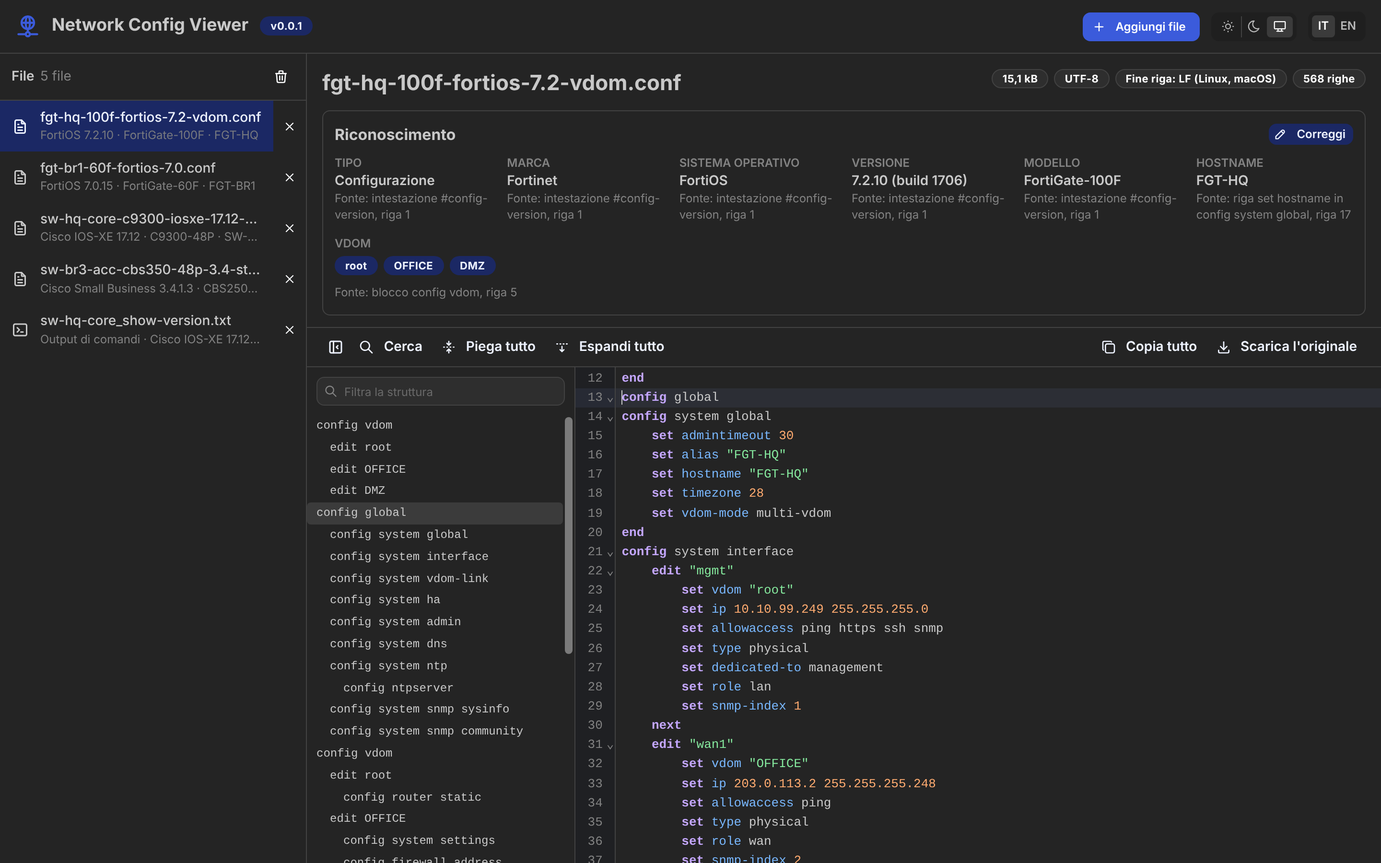
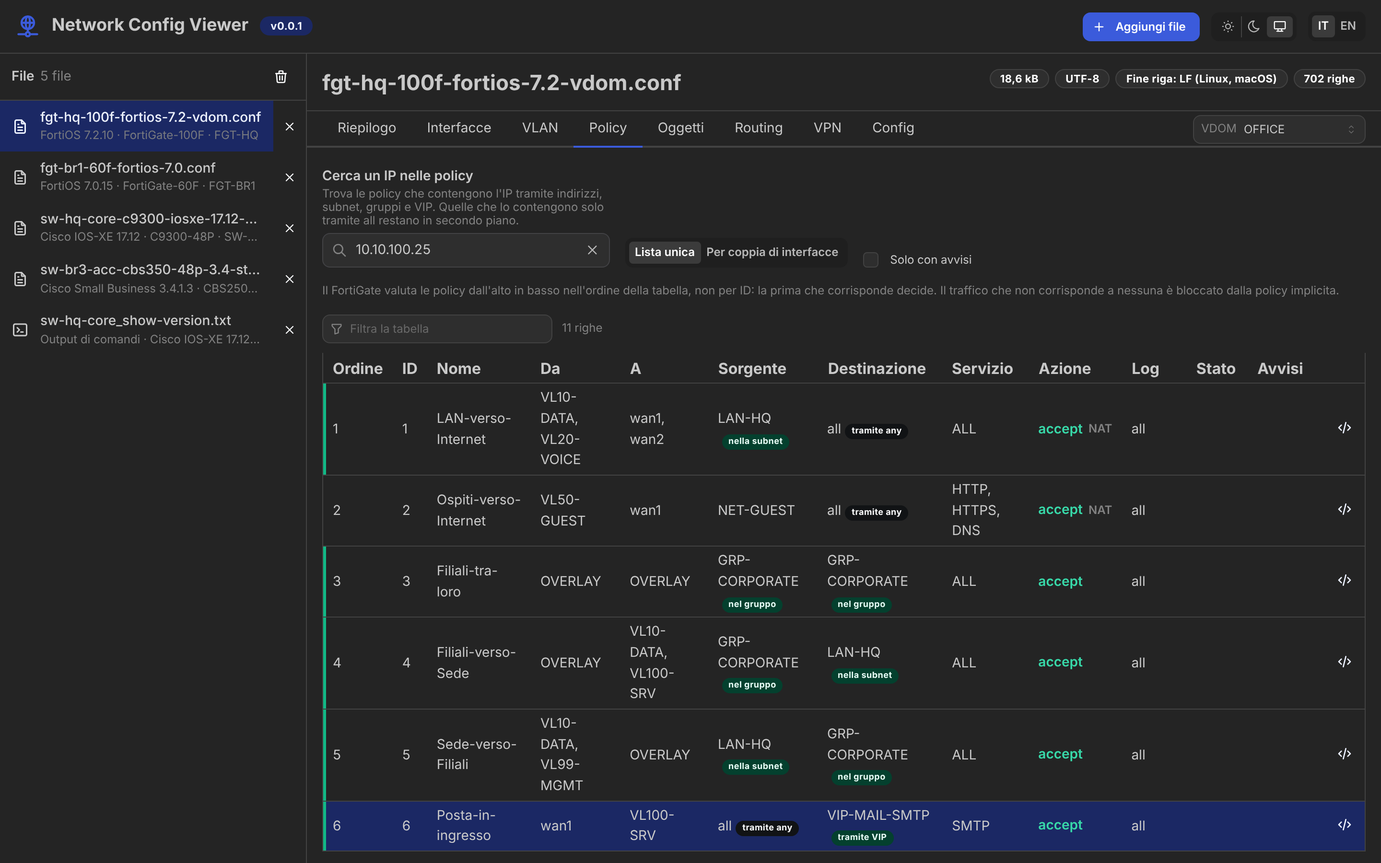
docs: studio, README e screenshot dei driver e delle viste della fase 1
La #11 ha portato su main driver e viste senza aggiornare la
documentazione: la recupero qui.

- Studio: decisioni della #10 (clienti e archivio locale su disco,
  browser, copertura, default), driver nel capitolo 3, modello neutro
  realizzato nel capitolo 4, cosa c'e' gia' nelle viste 5.2-5.10,
  scelte tecniche, test e roadmap della fase 1 con le parti fatte e
  quelle che mancano.
- README: cosa fa oggi l'app, stato del progetto, struttura del codice.
- Screenshot rifatti in chiaro e scuro: policy del FortiGate con la
  ricerca per IP, pannello porte dello stack, config collegata.

Refs #10

Claude-Session: https://claude.ai/code/session_019CEh6DvQwvQPP7ZKBtkL73

diff --git a/packages/web/e2e/screenshots.spec.ts b/packages/web/e2e/screenshots.spec.ts
@@ -1,6 +1,6 @@
 import { expect, test } from '@playwright/test';
 import { fileURLToPath } from 'node:url';
-import { field, loadFiles, openApp, samplePath, selectFile } from './helpers';
+import { loadFiles, openApp, samplePath, selectFile } from './helpers';
 
 // Screenshots for the documentation, made only from the synthetic samples.
 // Run with: NCV_SCREENSHOTS=1 npm run test:e2e -- screenshots
@@ -25,13 +25,17 @@ for (const [colorScheme, suffix] of [
   test.describe(colorScheme, () => {
     test.use({ colorScheme });
 
-    test('FortiGate with VDOMs', async ({ page }) => {
+    test('FortiGate policies', async ({ page }) => {
       await openApp(page);
       await loadFiles(page, files.map(samplePath), files.length);
       await selectFile(page, 'fgt-hq-100f-fortios-7.2-vdom.conf');
-      await expect(field(page, 'vdoms')).toBeVisible();
-      await page.getByTestId('outline').locator('[data-testid="outline-entry"]').nth(4).click();
-      await expect(page.locator('.cm-activeLine span').first()).toBeVisible();
+      await page.getByTestId('tab-policies').click();
+      await page.getByTestId('policy-ip-search').fill('10.10.100.25');
+      await expect(
+        page.locator('[data-testid="row-policies"][data-state="match"]').first(),
+      ).toBeVisible();
+      await page.locator('[data-testid="row-policies"][data-id="6"]').click();
+      await expect(page.getByTestId('policy-detail')).toBeVisible();
       await page.screenshot({ path: `${DOCS_IMG}app-fortigate${suffix}.png` });
     });
 
@@ -39,13 +43,25 @@ for (const [colorScheme, suffix] of [
       await openApp(page);
       await loadFiles(page, files.map(samplePath), files.length);
       await selectFile(page, 'sw-hq-core-c9300-iosxe-17.12-stack.txt');
-      await page.getByTestId('outline').getByRole('textbox').fill('Port-channel');
-      await expect(page.getByTestId('outline-entry')).toHaveCount(3);
-      await page.getByTestId('outline-entry').first().click();
-      await expect(page.locator('.cm-activeLine')).toHaveText('interface Port-channel1');
-      // Highlighting is applied right after scrolling: wait for the coloured tokens.
-      await expect(page.locator('.cm-activeLine span').first()).toBeVisible();
+      await page.getByTestId('tab-ports').click();
+      await page.locator('[data-testid="port"][data-name="TenGigabitEthernet1/1/1"]').click();
+      await expect(page.getByTestId('port-detail')).toBeVisible();
       await page.screenshot({ path: `${DOCS_IMG}app-cisco${suffix}.png` });
+    });
+
+    test('linked config', async ({ page }) => {
+      await openApp(page);
+      await loadFiles(page, files.map(samplePath), files.length);
+      await selectFile(page, 'sw-hq-core-c9300-iosxe-17.12-stack.txt');
+      await page.getByTestId('tab-ports').click();
+      await page.getByTestId('filter-ports').fill('Vlan70');
+      await page.locator('[data-testid="row-ports"][data-id="Vlan70"]').click();
+      await page.getByTestId('port-source').click();
+      await expect(page.locator('.ncv-ref').first()).toBeVisible();
+      await expect(page.locator('.ncv-line-unknown').first()).toBeVisible();
+      // Syntax highlighting is applied right after scrolling: wait for the coloured tokens.
+      await expect(page.locator('.cm-line span:not(.ncv-ref)').first()).toBeVisible();
+      await page.screenshot({ path: `${DOCS_IMG}app-config${suffix}.png` });
     });
 
     test('start page', async ({ page }) => {

diff --git a/docs/STUDIO.md b/docs/STUDIO.md
@@ -1,10 +1,10 @@
 # Studio preliminare: Network Config Viewer
 
-> **Stato:** novembre 2026. La [fase 0](#fase-0-fondamenta-realizzata) è realizzata: l'app si avvia in locale con Docker, riconosce le config FortiGate e Cisco e le mostra navigabili (vedi il [README](../README.md)). Il resto del documento raccoglie le decisioni prese e il piano delle fasi successive. Il [mockup](mockup/index.html) mostra con dati di esempio come potrebbero apparire le viste future: scarica il file e aprilo nel browser.
+> **Stato:** novembre 2026. La [fase 0](#fase-0-fondamenta-realizzata) è realizzata: l'app si avvia in locale con Docker, riconosce le config FortiGate e Cisco e le mostra navigabili. La [fase 1](#fase-1-lettura-dei-singoli-apparati-fortigate-cisco-iosios-xe-e-cisco-small-business-mvp) è in corso: i driver FortiOS, Cisco IOS/IOS-XE e Small Business leggono le config e l'app mostra le viste di ogni apparato (vedi il [README](../README.md)); mancano gli show con lo stato reale, l'archivio dei clienti su disco e l'export Excel. Il resto del documento raccoglie le decisioni prese e il piano delle fasi successive. Il [mockup](mockup/index.html) mostra con dati di esempio come potrebbero apparire le viste future: scarica il file e aprilo nel browser.
 
 ## 1. In breve
 
-- **Cosa**: uno strumento per **vedere l'infrastruttura di un cliente** partendo dai backup di configurazione. Ogni cliente ha la sua cartella con config, output di show e versioni precedenti. Si caricano tutti gli apparati (firewall, switch, wireless) e si ottengono:
+- **Cosa**: uno strumento per **vedere l'infrastruttura di un cliente** partendo dai backup di configurazione. Per ogni cliente si caricano nell'app config, output di show e versioni precedenti, e l'app li conserva. Si caricano tutti gli apparati (firewall, switch, wireless) e si ottengono:
   - una mappa grafica con collegamenti fisici, VPN, SD-WAN, scorciatoie ADVPN e routing/BGP;
   - le viste di dettaglio di ogni apparato: policy, porte e VLAN, ACL, regole SD-WAN, routing;
   - la vista dei rack, con patch panel e cavi.
@@ -39,7 +39,11 @@
 | FortiManager | Sia in lettura (template e policy package esistenti) sia in generazione |
 | Input | File caricati a mano e output dei comandi show; lettura live SSH/API in una fase successiva |
 | Analisi | Pulizia policy, policy lookup, topologia, confronto tra versioni, controlli di coerenza tra apparati |
-| Organizzazione | Una cartella per cliente, con config, output di show, versioni precedenti, file delle prese e collegamenti inseriti a mano |
+| Organizzazione | Clienti gestiti dall'app: all'app non si dà mai una cartella, i file si caricano (anche dentro archivi zip e tar) e l'app li conserva per cliente, raggruppati per apparato: config attuale, versioni precedenti, show, e più avanti file delle prese e collegamenti inseriti a mano |
+| Archivio locale | Su disco già nella fase 1: un volume Docker sul PC, gestito da un piccolo programma lato server nel container, che serve l'app al posto di nginx e conserva i file 1:1. Lo stesso archivio si vede da qualsiasi browser e non si perde pulendo il browser. Un cliente si esporta e si reimporta in un file zip |
+| Browser | Chrome, Edge, Firefox e Safari; i test nel browser girano su Chromium, Firefox e WebKit |
+| Copertura della lettura | Ogni riga è compresa, ignorata di proposito (commenti, banner, certificati, messaggi sostitutivi) o sconosciuta. Il riepilogo mostra la percentuale e le sezioni non interpretate; le righe sconosciute sono evidenziate nella config |
+| Valori di default | Tabelle per marca e versione; nelle viste i valori che vengono da un default sono in corsivo, e quelli non ancora confermati su apparati reali sono segnati "da verificare" |
 | Collegamenti tra apparati | Verificati con LLDP/CDP, dedotti da descrizioni e indirizzi, oppure inseriti a mano; le differenze tra le fonti vengono segnalate |
 | Indirizzi MAC sulle porte | Ogni porta configurata degli switch riporta i MAC dei dispositivi collegati, con la VLAN, letti dalla tabella MAC dello switch (`show mac address-table`), non dalla config. Lo strumento li mostra e segnala le porte senza MAC e lo show mancante (vedi [5.5](#55-pannello-porte-dello-switch)) |
 | VPN | Anche ADVPN: ruoli, controlli e scorciatoie tra filiali |
@@ -56,7 +60,7 @@
 | Documentazione e screenshot | Solo con dati sintetici, generati dalle config di esempio in `samples/` |
 | Licenza | Open source, MIT |
 | Codice | Scritto da Claude: lo stack si sceglie per semplicità d'uso, non per familiarità |
-| Strumenti | TypeScript, npm workspaces, React + Vite, Mantine, i18next, CodeMirror 6, fflate, Vitest, Playwright (vedi [capitolo 8](#8-scelte-tecniche)) |
+| Strumenti | TypeScript, npm workspaces, React + Vite, Mantine, i18next, CodeMirror 6, TanStack Table e TanStack Virtual, fflate, Vitest, Playwright (vedi [capitolo 8](#8-scelte-tecniche)) |
 | Test automatici | Su GitHub Actions a ogni pull request: lint, tipi, test, build, immagine Docker e test nel browser sul container. Non si pubblica niente |
 | Metodo di lavoro | Ogni proposta viene analizzata e diventa un'issue; si lavora solo dopo l'okay. Registro delle modifiche in `CHANGELOG.md`, documentazione sempre aggiornata, Semantic Versioning. Regole complete in [`CLAUDE.md`](../CLAUDE.md) |
 
@@ -117,6 +121,13 @@ flowchart LR
 Così il lavoro sulla sintassi si fa una volta per famiglia, e ogni nuova marca costa solo il suo driver.
 
 Nella fase 0 ci sono i parser generici delle due famiglie dell'MVP: indentazione e blocchi `config / edit / set / next / end`. Gestiscono anche i casi che rompono le regole: valori FortiOS tra virgolette su più righe (certificati, chiavi, messaggi), VDOM con i blocchi a colonna 0, banner Cisco con delimitatore (`^C` o il carattere ETX), catene di certificati chiuse da `quit`, intestazione e blocchi `exit` dei Cisco Small Business. Un file da 20 MB si legge in meno di un secondo, fuori dal thread dell'interfaccia.
+
+Nella fase 1 ci sono i driver di marca dell'MVP, in `packages/core/src/drivers`:
+
+- **Cisco IOS, IOS-XE e Small Business**: interfacce e modalità delle porte (con i default di DTP e dei trunk), liste `allowed vlan` con `add`, `remove` ed `except`, modalità `general` dei Small Business, VLAN anche quando le tiene il VTP, port-channel, stack e posizione delle porte, SVI, PoE, 802.1X/MAB, port security, VLAN voce, ACL e object-group con i punti in cui sono applicati, rotte statiche, policy route, OSPF, BGP, route-map e prefix-list.
+- **FortiOS 7.0–8.0**: VDOM come contesti separati, interfacce e zone, indirizzi e gruppi (con le esclusioni), servizi, VIP, IP pool, policy nell'ordine reale, rotte statiche anche verso le zone SD-WAN, policy route, BGP con gruppi e range dinamici, OSPF, route-map, prefix-list, IPsec con fase 1, fase 2 e ruolo ADVPN, SD-WAN. Gli oggetti predefiniti (`all`, `ALL`, `HTTP`, `HTTPS`, `DNS`…) si aggiungono quando le policy li usano senza definirli.
+
+Ogni driver classifica le righe (copertura), collega i nomi alla loro definizione e segna i valori di default. Il modello si costruisce nel Web Worker: un FortiGate con 10.000 policy si legge in meno di mezzo secondo.
 
 ### Come ottenere l'input per ogni marca
 
@@ -183,7 +194,7 @@ Per FortiSwitch gestiti dal FortiGate la tabella MAC si legge dal FortiGate con 
 | `get router info bgp summary` | Sessioni BGP stabilite e prefissi ricevuti |
 | `diagnose sys sdwan health-check`, `diagnose sys sdwan service` | Stato degli SLA e membro scelto da ogni regola SD-WAN (i nomi dei comandi cambiano leggermente tra le versioni) |
 
-## 4. Modello dati neutro (prima bozza)
+## 4. Modello dati neutro
 
 ```
 Cliente (una cartella sul PC)
@@ -220,6 +231,16 @@ Cliente (una cartella sul PC)
 - Ogni elemento porta con sé i riferimenti alle righe sorgente.
 - I contesti logici vanno previsti da subito: policy e oggetti appartengono a un contesto (per esempio una VDOM), non direttamente all'apparato.
 
+**Cosa c'è già (fase 1).** La prima versione del modello, in `packages/core/src/model/types.ts`, copre un apparato alla volta:
+
+- l'apparato, con hostname, marca, sistema e versione, modello, membri dello stack, IP di gestione e funzioni in uso;
+- le interfacce, con modalità L2, VLAN, port-channel, posizione sul frontale, PoE, 802.1X/MAB, port security, indirizzi IP, VRF, ACL applicate, OSPF, e per FortiOS alias, ruolo, accesso amministrativo e VDOM;
+- le VLAN, anche quelle implicite (VLAN 1, VLAN usate dalle porte ma non scritte per via del VTP);
+- i contesti logici (le VDOM, oppure un solo contesto per gli switch), con zone, indirizzi, gruppi, servizi, policy, VIP, IP pool, ACL, object-group, routing (statiche, policy route, BGP, OSPF, route-map, prefix-list), IPsec e SD-WAN;
+- i riferimenti dai nomi alle definizioni, la copertura riga per riga e gli avvisi (per esempio VLAN fuori dalla config per via del VTP, policy disattivate, senza log, che permettono tutto o che aprono servizi di gestione a tutti).
+
+Ogni elemento ha le righe da cui proviene e l'elenco dei campi che vengono da un default, con quelli ancora da verificare. Rack, collegamenti tra apparati, servizi di gestione, apparati gestiti, wireless e stato dagli show arrivano nelle fasi successive.
+
 ## 5. Le viste grafiche
 
 Il [mockup](mockup/index.html) contiene le viste 5.1–5.7, 5.9 e 5.11, con un cliente di esempio: una sede con FortiGate hub e tre Catalyst, tre filiali con FortiGate in SD-WAN e ADVPN.
@@ -241,6 +262,8 @@ Il [mockup](mockup/index.html) contiene le viste 5.1–5.7, 5.9 e 5.11, con un c
 - **Esportazione in draw.io e immagine**, per la documentazione da consegnare al cliente.
 
 ### 5.2 VPN
+
+**Nella fase 1**, per ogni FortiGate e per ogni VDOM: elenco dei tunnel con tipo, interfaccia, gateway remoto, versione IKE, proposte, ruolo ADVPN e fasi 2 (selettori, proposte, PFS, gruppi DH, negoziazione automatica, durata della chiave), con i valori di default indicati come tali. L'abbinamento dei due estremi arriva con la mappa (fase 2).
 
 Elenco dei tunnel di tutto il progetto con i due estremi abbinati, e per ciascuno:
 
@@ -278,11 +301,15 @@ Per ogni FortiGate:
 
 Sulla mappa, gli overlay SD-WAN collegano filiali e hub. Le stesse viste valgono per il multi-WAN degli altri vendor, per esempio i gateway group di pfSense e OPNsense.
 
+**Nella fase 1** ci sono zone, membri, health check con SLA e regole in ordine con la regola implicita; il membro in uso arriva con gli show.
+
 ### 5.4 Routing e BGP
 
 - **Per apparato**: rotte statiche, policy route, BGP (neighbor, gruppi, range dinamici dell'hub, reti annunciate, redistribuzioni, route-map e prefix-list espanse), OSPF.
 - **Sulla mappa**: sessioni BGP abbinate tra apparati, con AS, iBGP o eBGP e route reflector.
 - **Tabella di routing reale**, se caricata da show, con evidenziate le rotte attese che mancano (per esempio la LAN di una filiale la cui sessione BGP non è su). Senza show, la tabella mostra le rotte che derivano dalla config: connesse, statiche, reti annunciate.
+
+**Nella fase 1**, per ogni apparato e per ogni VDOM: rotte ricavate dalla config (connesse e statiche, anche verso le zone SD-WAN) con la ricerca della rotta per un IP, policy route, OSPF con le interfacce, l'area e quelle passive, BGP con neighbor, gruppi, range dinamici, reti annunciate e redistribuzioni, route-map e prefix-list.
 
 ### 5.5 Pannello porte dello switch
 
@@ -306,9 +333,13 @@ Disegno del frontale, con un riquadro per ogni membro dello stack:
   - il modello si ricava dalla config stessa (per esempio `switch 1 provision c9300-48p` su Cisco, l'intestazione `#config-version=FGT60F-…` su FortiGate) oppure da `show inventory`.
 - Lo stesso pannello serve per le **interfacce del FortiGate** (port1…, wan, x1/x2 SFP+) e per i **FortiSwitch** gestiti dal FortiGate, comprese le coppie MCLAG.
 
+**Nella fase 1** il pannello degli switch è quello generico: un riquadro per ogni membro dello stack, porte dispari sopra e pari sotto, uplink a parte, colore per VLAN access (lo stesso su un apparato), trunk a strisce, porte spente e L3, segni per PoE, 802.1X/MAB, VLAN voce e port-channel, filtro per VLAN e dettaglio della porta con i valori di default indicati come tali. Sotto il pannello c'è la tabella di tutte le interfacce. Per il FortiGate le interfacce sono in una tabella, con tipo, VDOM, zona, interfaccia padre o membri e accesso amministrativo. Stato reale e indirizzi MAC arrivano con gli show.
+
 ### 5.6 VLAN
 
 Per ogni VLAN: nome, **gateway** (anche se si trova su un altro apparato del progetto, per esempio la sotto-interfaccia del FortiGate), numero di porte access, voce e trunk, e una striscia con tutte le porte nell'ordine del frontale. È il riferimento principale nelle migrazioni switch.
+
+**Nella fase 1**: nome, gateway se sta sullo stesso apparato, porte access, voce, untagged e tagged (i membri dei port-channel contano nel `Po`); per il FortiGate, le interfacce VLAN con ID, interfaccia padre, indirizzo e VDOM.
 
 ### 5.7 Policy firewall
 
@@ -323,21 +354,29 @@ Tabella in stile GUI FortiGate:
 - **Viste collegate**: VIP/NAT, IP pool, interfacce e zone, rotte statiche.
 - **Altri vendor**: la vista segue il modello di ognuno. Per esempio pfSense e OPNsense hanno regole per interfaccia d'ingresso, con le regole floating valutate per prime.
 
+**Nella fase 1**: ordine reale, lista unica o per coppia di interfacce, VDOM, ricerca testuale e per IP (tramite indirizzi, subnet, gruppi con le esclusioni, VIP e `all`; le regole che contengono l'IP solo tramite `all` restano in secondo piano), dettaglio della regola con gli oggetti espansi fino agli IP e i servizi fino alle porte, avvisi (disabilitate, senza log, any-any, sorgente `all` su servizi di gestione). Gli oggetti hanno una vista propria con "dove è usato". Le regole oscurate arrivano con la pulizia policy (fase 3).
+
 ### 5.8 ACL degli switch
 
 Elenco delle ACL con le voci, gli object-group espansi e i **punti in cui sono applicate** (interfaccia e direzione, VTY, SNMP, NAT, route-map…). Usa lo stesso motore di ricerca e di lookup delle policy firewall.
+
+**Nella fase 1**: voci, punti di applicazione (interfacce, VTY, SNMP, route-map, accesso di gestione dei Small Business), object-group espansi e ricerca per IP tramite host, subnet, gruppi e `any`. Il lookup di un flusso arriva nella fase 3.
 
 ### 5.9 Config originale collegata
 
 Testo originale con evidenziazione della sintassi, blocchi piegabili e numeri di riga. I nomi degli oggetti sono cliccabili (portano alla definizione) e le righe non comprese dal parser sono evidenziate. Ogni dettaglio (porta, policy, tunnel) indica le righe da cui proviene.
 
-Nella fase 0 ci sono già evidenziazione, blocchi piegabili, numeri di riga, ricerca e una struttura navigabile (blocchi `config`, VDOM, interfacce, banner…). Il testo resta identico al file: si copia o si scarica byte per byte, anche con i fine riga di Windows. Nomi cliccabili e righe non comprese arrivano con i driver di marca della fase 1.
+Nella fase 0 ci sono evidenziazione, blocchi piegabili, numeri di riga, ricerca e una struttura navigabile (blocchi `config`, VDOM, interfacce, banner…). Il testo resta identico al file: si copia o si scarica byte per byte, anche con i fine riga di Windows.
 
-![La vista della config nella fase 0: elenco dei file, riconoscimento con la riga da cui viene ogni dato, struttura navigabile e testo originale](img/app-fortigate.png)
+Nella fase 1, per gli apparati letti da un driver, la config è l'ultima scheda delle viste: i nomi sono cliccabili verso la definizione, con "Torna indietro"; le righe non interpretate sono evidenziate (si possono nascondere); ogni elemento delle viste apre la config sulle sue righe.
+
+![La config collegata di uno stack Catalyst: righe non interpretate evidenziate e nomi cliccabili verso la loro definizione](img/app-config.png)
 
 ### 5.10 Riepilogo dell'apparato
 
 Hostname, modello, versione, IP di gestione, conteggi (interfacce, VLAN, policy, oggetti), funzioni in uso (stack, vPC, VSX, 802.1X, OSPF, SD-WAN…), show caricati e percentuale di copertura del parser.
+
+**Nella fase 1** il riepilogo è la prima scheda di ogni apparato letto da un driver: riconoscimento (correggibile a mano), IP di gestione, stack o VDOM, conteggi, funzioni in uso, avvisi raggruppati per tipo con il salto alle righe, copertura con l'elenco delle sezioni non interpretate. Gli show caricati arrivano con la loro lettura.
 
 ### 5.11 Rack e patch panel
 
@@ -448,16 +487,16 @@ Il punto forte di Python (librerie SSH come Netmiko) serve solo per la lettura l
 | Interfaccia | React + Vite, con Mantine come libreria di componenti (tema chiaro, scuro o come il sistema, a scelta) |
 | Traduzioni | i18next, un file JSON per lingua; un test verifica che italiano e inglese abbiano le stesse chiavi, e il lint segnala i testi scritti direttamente nel codice |
 | Gestore pacchetti | npm workspaces: nessuno strumento in più da installare |
-| Tabelle grandi (migliaia di policy) | TanStack Table con virtualizzazione |
+| Tabelle grandi (migliaia di policy) | TanStack Table e TanStack Virtual (MIT): ordinamento, filtro e righe virtualizzate. Un test verifica che la tabella di 10.000 policy resti fluida |
 | Pannelli porte | SVG disegnato da codice |
 | Mappa e schemi LAG/vPC | React Flow con layout automatico, esportazione in draw.io |
 | Config originale | CodeMirror 6 (evidenziazione, piegatura, salto alla riga) |
 | Elaborazione | Web Worker, così l'interfaccia non si blocca sui file grandi |
 | Archivi zip, tar, tar.gz e gz | fflate per zip e gzip, lettore tar scritto nel progetto; archivi annidati, con limiti di profondità e dimensione |
-| Cartelle dei clienti | Una cartella per cliente sul PC, letta e aggiornata direttamente dal browser (Chrome ed Edge lo permettono); negli altri browser, salvataggio interno al browser con import/export in zip |
+| Clienti e archivio | Archivio locale su disco, in un volume Docker, gestito da un piccolo programma lato server nel container (in arrivo nella fase 1); la lettura delle config resta nel browser |
 | Export | Excel (ExcelJS), report HTML stampabile in PDF |
 | Test | Vitest (parser e logica), Playwright (interfaccia) |
-| Struttura del codice | Monorepo: `core` (modello, parser, correlazione, generatori, analisi, senza dipendenze dal browser), `web` (interfaccia), in futuro `server` |
+| Struttura del codice | Monorepo: `core` (modello, parser, driver di marca, funzioni di ricerca sul modello, poi correlazione, generatori e analisi, senza dipendenze dal browser), `web` (interfaccia), `server` in arrivo con l'archivio locale |
 | Avvio | Docker: build in due passaggi (Node.js per la build, poi solo nginx senza privilegi con i file statici) e `compose.yaml` con la porta aperta solo su `127.0.0.1` |
 
 La licenza di ogni libreria va verificata prima di adottarla: deve essere compatibile con la licenza MIT del progetto.
@@ -485,9 +524,10 @@ Docker Desktop è gratuito per uso personale e per le aziende con meno di 250 di
 
 ## 10. Qualità e test
 
-- **Raccolta di config di esempio** per ogni marca e versione, solo sintetiche, in [`samples/`](../samples/README.md), con il risultato atteso salvato accanto (`expected.json`): ogni modifica ai parser viene verificata su tutta la raccolta.
+- **Raccolta di config di esempio** per ogni marca e versione, solo sintetiche, in [`samples/`](../samples/README.md), con il risultato atteso salvato accanto: il riconoscimento in `expected.json` e il riassunto del modello di ogni config in `expected-models.json`. Ogni modifica ai parser e ai driver viene verificata su tutta la raccolta.
 - **Progetti di esempio multi-apparato** (sede e filiali con VPN, SD-WAN e BGP) per verificare la correlazione e i controlli di coerenza.
-- **Copertura** misurata per ogni file: percentuale di righe comprese.
+- **Copertura** misurata per ogni file: percentuale di righe comprese, verificata dai riassunti attesi.
+- **Prestazioni**: una config da 20 MB si apre senza bloccare l'interfaccia e la tabella di 10.000 policy resta fluida durante lo scorrimento (test nel browser).
 - **Andata e ritorno** per i generatori: modello → config → rilettura → stesso modello.
 - **Test differenziali** per le migrazioni: stessi flussi di prova, stesso esito su sorgente e destinazione.
 - **Test automatici dell'interfaccia** con screenshot.
@@ -507,12 +547,18 @@ Issue [#4](https://github.com/TehMaat/Network-Config-Viewer/issues/4).
 - **Risultato**: avvii l'app con Docker, trascini un backup FortiGate o Cisco e l'app lo riconosce e mostra la config navigabile, identica all'originale.
 
 ### Fase 1: lettura dei singoli apparati FortiGate, Cisco IOS/IOS-XE e Cisco Small Business (MVP)
-- FortiGate: interfacce e zone, oggetti, policy (con VDOM), VIP e IP pool, routing (statiche, BGP, OSPF), VPN IPsec, SD-WAN.
-- Cisco IOS/IOS-XE e Cisco Small Business: interfacce, VLAN, trunk, port-channel, stack, SVI, ACL, routing.
-- Output dei comandi show di entrambi, compresa la tabella MAC (`show mac address-table`) di Cisco IOS/IOS-XE e Cisco Small Business, con i MAC su ogni porta configurata.
-- Cartella per cliente: si apre una cartella con config, show e versioni precedenti, e lo strumento la legge tutta.
-- Viste per apparato (5.3–5.10) ed export Excel.
-- **Risultato**: ogni FortiGate e ogni Catalyst leggibile in forma grafica.
+Issue [#10](https://github.com/TehMaat/Network-Config-Viewer/issues/10), in corso.
+- **Realizzato** ([#11](https://github.com/TehMaat/Network-Config-Viewer/pull/11)):
+  - modello neutro, con le righe d'origine di ogni elemento, i default indicati e la copertura riga per riga;
+  - FortiGate: interfacce e zone, oggetti, policy (con VDOM), VIP e IP pool, routing (statiche, policy route, BGP, OSPF), VPN IPsec, SD-WAN;
+  - Cisco IOS/IOS-XE e Cisco Small Business: interfacce, VLAN, trunk, port-channel, stack, SVI, PoE, 802.1X/MAB, ACL, routing;
+  - viste per apparato (5.2–5.10, per il singolo apparato) e config collegata.
+- **Da completare**:
+  - output dei comandi show di entrambi, da file singoli e da log di sessione, con lo stato reale nelle viste e la tabella MAC (`show mac address-table`) con i MAC su ogni porta configurata;
+  - clienti nell'archivio locale su disco (volume Docker e programma lato server nel container): file caricati e conservati per cliente, raggruppati per apparato con versioni precedenti e show, esportazione e importazione in zip;
+  - export Excel;
+  - test nel browser anche su Firefox e WebKit.
+- **Risultato**: ogni FortiGate e ogni Catalyst leggibile in forma grafica, con i file di ogni cliente conservati sul PC.
 
 ### Fase 2: mappa dell'infrastruttura
 - Progetto con più apparati e siti; correlazione (cavi, LAG, subnet, IPsec, overlay SD-WAN, BGP).
@@ -550,7 +596,7 @@ Issue [#4](https://github.com/TehMaat/Network-Config-Viewer/issues/4).
 
 Nessuna domanda aperta. Durante la fase 1, quando un parser sbaglia su una config reale, serviranno le righe che danno problemi, passate in chat con i valori sensibili cambiati a mano.
 
-Da valutare nella fase 1, con un'issue separata: con Docker la cartella dei clienti si potrebbe collegare al container, così si leggerebbe da qualsiasi browser, compreso Firefox; servirebbe però un componente lato server.
+Deciso nella fase 1 ([#10](https://github.com/TehMaat/Network-Config-Viewer/issues/10)): l'archivio dei clienti sta su disco, in un volume Docker gestito da un programma lato server nel container, e si vede da qualsiasi browser.
 
 ## Riferimenti
 

diff --git a/README.md b/README.md
@@ -2,13 +2,13 @@
 
 Strumento per vedere l'infrastruttura di rete di un cliente partendo dai backup di configurazione degli apparati. Gira tutto sul tuo PC: le config vengono lette nel browser e non vengono mai inviate da nessuna parte.
 
-![Una config FortiGate con VDOM multiple: elenco dei file, riconoscimento con la riga da cui viene ogni dato, struttura navigabile e testo originale](docs/img/app-fortigate.png)
+![Le policy di un FortiGate con VDOM multiple: ricerca di un IP, che trova le regole tramite subnet, gruppi e VIP](docs/img/app-fortigate.png)
 
 ## Stato del progetto
 
-Versione 0.0.1, con la fase 0 della roadmap: trascini un backup FortiGate o Cisco, l'app lo riconosce e mostra la config navigabile, identica all'originale.
+Versione 0.0.1, con la fase 0 della roadmap e la prima parte della fase 1: trascini un backup FortiGate o Cisco e l'app lo legge e lo mostra in forma grafica, apparato per apparato, sempre collegato alla config originale, identica al file.
 
-Le fasi successive (lettura delle config, mappa dell'infrastruttura, analisi, rack, migrazioni) sono descritte nello [studio](docs/STUDIO.md). Il [mockup](docs/mockup/index.html) mostra con dati di esempio come potrebbero apparire le viste future: scaricalo e aprilo nel browser.
+Della fase 1 mancano ancora la lettura degli show con lo stato reale, l'archivio dei clienti sul PC e l'export Excel. Le fasi successive (mappa dell'infrastruttura, analisi, rack, migrazioni) sono descritte nello [studio](docs/STUDIO.md). Il [mockup](docs/mockup/index.html) mostra con dati di esempio come potrebbero apparire le viste future: scaricalo e aprilo nel browser.
 
 ## Cosa fa oggi
 
@@ -16,13 +16,18 @@ Le fasi successive (lettura delle config, mappa dell'infrastruttura, analisi, ra
 - **Riconosce** marca, sistema operativo, versione, modello, hostname, stack e VDOM, e per ogni dato mostra la riga da cui viene. Se sbaglia, si corregge a mano.
   - FortiGate (FortiOS) e FortiSwitch, Cisco IOS e IOS-XE, Cisco Small Business. Cisco NX-OS e ASA vengono riconosciuti, ma non ancora letti.
   - Output dei comandi show, con o senza prompt.
-- **Mostra la config originale** con evidenziazione, blocchi piegabili, numeri di riga, ricerca e una struttura navigabile: blocchi `config`, VDOM, interfacce, banner…
+- **Legge le config** di FortiGate (FortiOS 7.0–8.0, anche con VDOM multiple), Cisco IOS e IOS-XE e Cisco Small Business, e per ogni apparato mostra le sue viste:
+  - **riepilogo**: IP di gestione, stack o VDOM, conteggi, funzioni in uso, avvisi e copertura della lettura, con le sezioni non interpretate;
+  - **switch**: pannello delle porte di ogni membro dello stack (colori per VLAN, trunk a strisce, porte spente, L3, PoE, 802.1X/MAB, VLAN voce, port-channel), VLAN con porte e gateway, ACL con la ricerca per IP, routing;
+  - **FortiGate**: interfacce e zone, VLAN, policy nell'ordine reale (lista unica o per coppia di interfacce) con la ricerca per IP anche tramite subnet, gruppi, VIP e "all", oggetti con "dove è usato", routing, VPN IPsec, SD-WAN.
+- **Indica i valori di default**: quello che la config non scrive ma l'apparato usa è in corsivo, e i default ancora da confermare su apparati reali sono segnati "da verificare".
+- **Mostra la config originale** con evidenziazione, blocchi piegabili, numeri di riga, ricerca e una struttura navigabile: blocchi `config`, VDOM, interfacce, banner… Per gli apparati letti, i nomi portano alla loro definizione, le righe non interpretate sono evidenziate e da ogni elemento delle viste si salta alle sue righe.
 - **Non modifica mai le config**: il testo si copia o si scarica identico al file, byte per byte, anche con i fine riga di Windows.
 - **Segnala i file che non si possono leggere**: binari, vuoti, archivi danneggiati o protetti da password, backup FortiGate cifrati.
 - Interfaccia in **italiano e inglese**, a scelta.
 - Tema **chiaro, scuro o come il sistema**, a scelta. La scelta resta salvata nel browser.
 
-![La config di uno stack Catalyst 9300 in tema scuro, con la struttura filtrata sui port-channel](docs/img/app-cisco-scuro.png)
+![Il pannello delle porte di uno stack Catalyst 9300 in tema scuro, con il dettaglio di un uplink in port-channel](docs/img/app-cisco-scuro.png)
 
 ## Come avviarlo
 
@@ -68,9 +73,9 @@ Serve Node.js 22.12 o successivo (i test automatici usano la versione 24).
 La prima volta, per i test nel browser: `npx playwright install chromium`.
 
 Struttura del codice:
-- `packages/core`: lettura dei file e degli archivi, riconoscimento, parser. TypeScript senza dipendenze dal browser, così potrà girare anche sul server.
-- `packages/web`: interfaccia React con Mantine, CodeMirror e i18next. Le traduzioni sono in `packages/web/src/i18n`.
-- `samples`: config di esempio sintetiche, con il riconoscimento atteso in `expected.json`.
+- `packages/core`: lettura dei file e degli archivi, riconoscimento, parser, driver di marca, modello neutro e funzioni di ricerca sul modello. TypeScript senza dipendenze dal browser, così potrà girare anche sul server.
+- `packages/web`: interfaccia React con Mantine, CodeMirror, TanStack Table e i18next. Le viste degli apparati sono in `packages/web/src/views`, le traduzioni in `packages/web/src/i18n`.
+- `samples`: config di esempio sintetiche, con il riconoscimento atteso in `expected.json` e il riassunto atteso del modello in `expected-models.json`.
 - `docker`: configurazione di nginx e delle regole di sicurezza; `Dockerfile` e `compose.yaml` sono nella radice.
 
 Gli screenshot in `docs/img/app-*.png`, in tema chiaro e in tema scuro (`-scuro`), si rigenerano con `NCV_SCREENSHOTS=1 npm run test:e2e -- screenshots`.

diff --git a/CHANGELOG.md b/CHANGELOG.md
@@ -40,6 +40,7 @@ Il formato segue [Keep a Changelog](https://keepachangelog.com/) e le versioni s
 
 ### Modificato
 
+- Studio, README e screenshot aggiornati con i driver e le viste della fase 1 già unite: decisioni sull'archivio dei clienti, i browser, la copertura e i default; modello neutro realizzato; viste per apparato; roadmap della fase 1 con le parti fatte e quelle che mancano ([#10](https://github.com/TehMaat/Network-Config-Viewer/issues/10)).
 - Config di esempio FortiGate arricchite con servizi personalizzati e gruppi di servizi, OSPF verso il centro stella, policy route, prefix-list e route-map per BGP, la VPN del campus e policy che fanno scattare gli avvisi ([#10](https://github.com/TehMaat/Network-Config-Viewer/issues/10)).
 - Config di esempio Cisco arricchite con OSPF, policy route, ACL applicate a interfacce, VTY e SNMP, object-group, 802.1X e MAB, PoE, port security con MAC sticky, VTP in modalità server con le VLAN solo nello show e modalità `general` dei Small Business; per ogni config c'è il riassunto atteso del modello in `samples/expected-models.json`, verificato dai test ([#10](https://github.com/TehMaat/Network-Config-Viewer/issues/10)).
 - Screenshot della documentazione rifatti con il nuovo selettore del tema, in tema chiaro e in tema scuro; il README mostra entrambi ([#7](https://github.com/TehMaat/Network-Config-Viewer/issues/7)).
